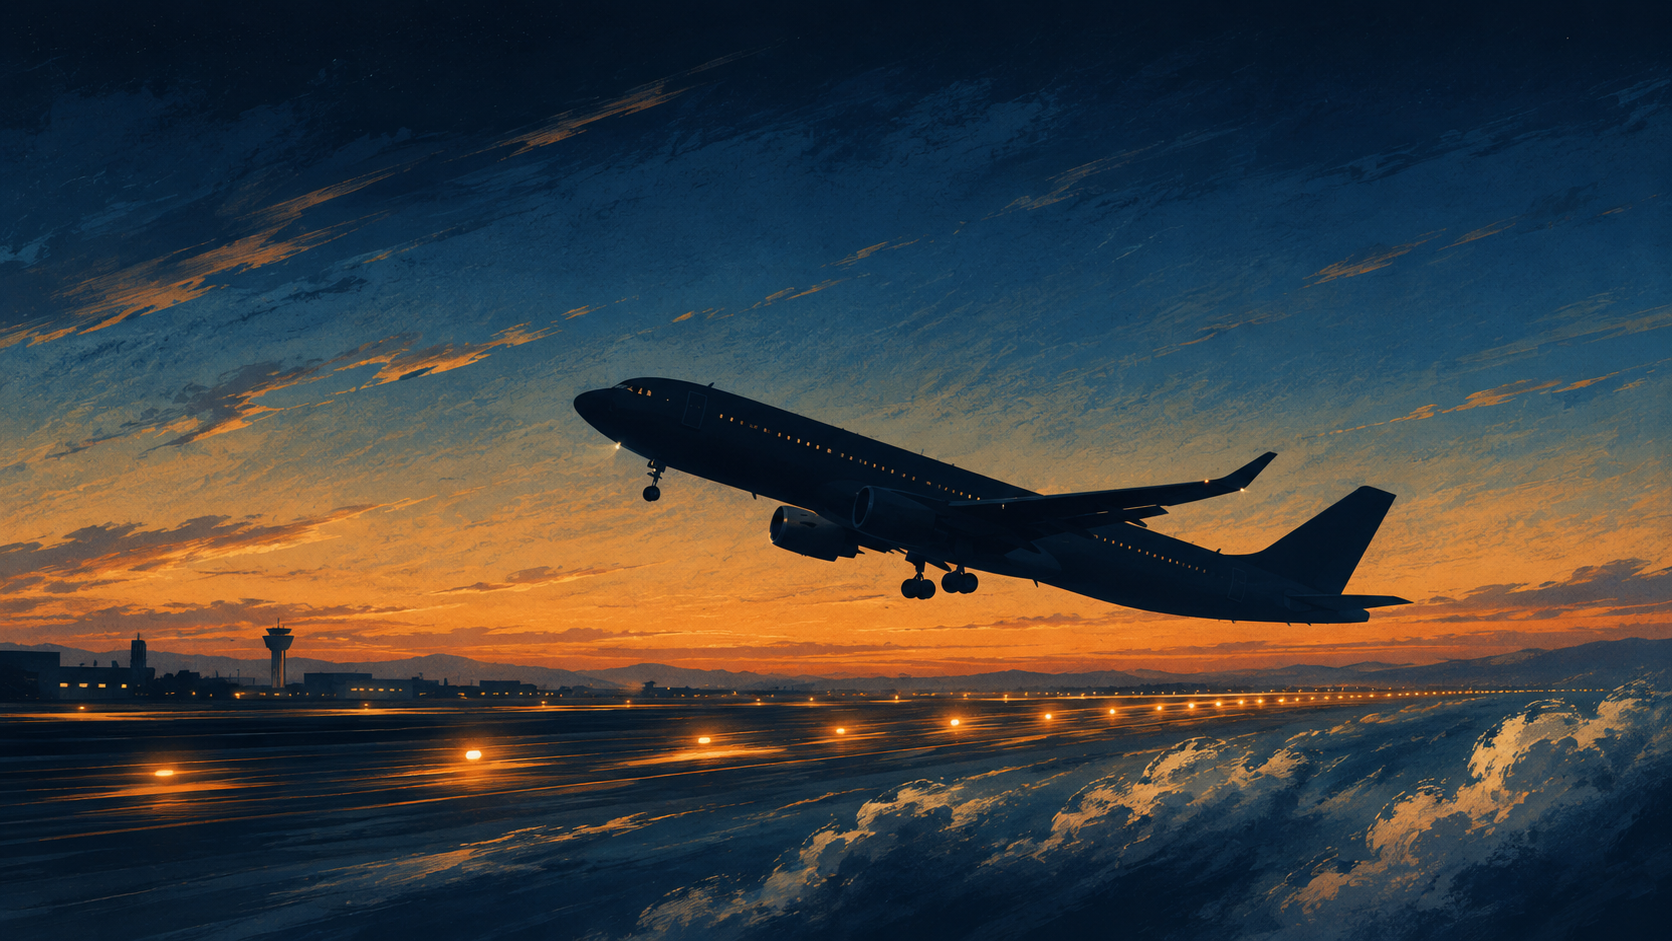
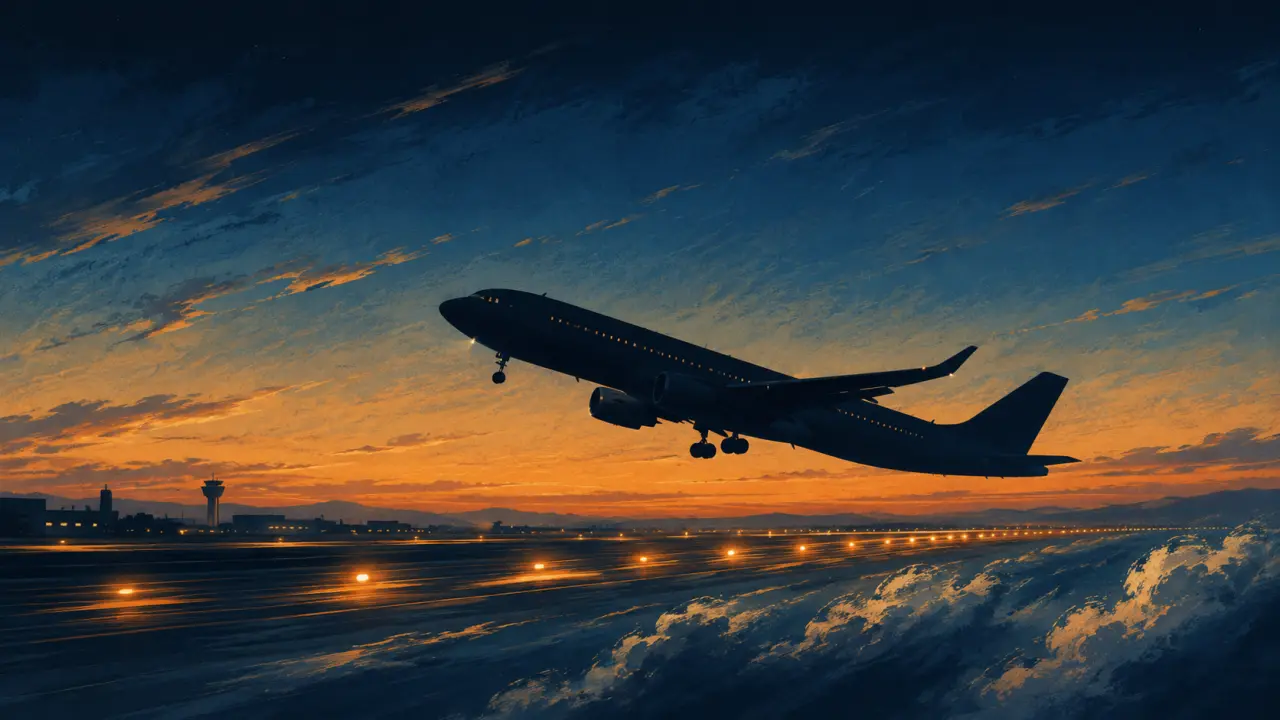
feat(ios): fit globe screen, speed up art loading, add city local goods
- Globe now sizes from window height (216-244pt, was fixed 268) so the
  环球 page fits on common phones without scrolling; arc bulge scales too.
- earth.png (1.6 MB) -> earth.webp (48 KB); flight takeoff/cruise frames
  re-encoded as true 1280x720 WebP (~56 KB / 40 KB, were 2 MB PNG impostors).
- Prefetch earth texture, current city hero and cutscene art on launch/city
  change so images paint immediately instead of popping in over the tunnel.
- Add 19 local specialty products for atlanta/dallas/denver/chicago/
  los_angeles/guangzhou/seoul/miami (Local market tab was empty there),
  reusing desktop 128x128 art; 8 carry demandIn premiums for arbitrage.
- Extract globeSizeFor() pure helper; add clamp + content-completeness
  tests (22 pass).

diff --git a/ios/expo/src/components/Globe.js b/ios/expo/src/components/Globe.js
@@ -6,37 +6,37 @@ import {
   PanResponder,
   Pressable,
   StyleSheet,
+  useWindowDimensions,
 } from 'react-native';
 import { CIDS, CITIES } from '../gameData';
+import { globeSizeFor } from '../gameLogic';
 import { assetSource } from '../assets';
 import { COLORS } from '../theme';
 
-const SIZE = 268;
-const IMG_W = SIZE * 2;
 const R = Math.PI / 180;
 
-function projectPin(lon, lat, rot) {
+function projectPin(lon, lat, rot, size) {
   const rel = ((lon + rot + 540) % 360) - 180;
   const vis = Math.abs(rel) < 88;
   const edge = Math.cos(rel * R);
   return {
-    x: (50 + (rel / 90) * 50) / 100 * SIZE,
-    y: (50 - (lat / 90) * 50) / 100 * SIZE,
+    x: (50 + (rel / 90) * 50) / 100 * size,
+    y: (50 - (lat / 90) * 50) / 100 * size,
     vis,
     edge,
     opacity: vis ? 0.4 + edge * 0.6 : 0,
   };
 }
 
-function sampleArc(x0, y0, x1, y1, n = 28) {
+function sampleArc(x0, y0, x1, y1, n, size) {
   const mx = (x0 + x1) / 2;
   const my = (y0 + y1) / 2;
-  const cx = SIZE / 2;
-  const cy = SIZE / 2;
+  const cx = size / 2;
+  const cy = size / 2;
   const dx = mx - cx;
   const dy = my - cy;
   const len = Math.hypot(dx, dy) || 1;
-  const bulge = 32;
+  const bulge = Math.round(size * 0.12);
   const qx = mx + (dx / len) * bulge;
   const qy = my + (dy / len) * bulge;
   const pts = [];
@@ -53,6 +53,9 @@ function sampleArc(x0, y0, x1, y1, n = 28) {
 
 /** Draggable world globe with pins, optional ticket arc, and inertia. */
 export function Globe({ game }) {
+  const { height } = useWindowDimensions();
+  const SIZE = globeSizeFor(height);
+  const IMG_W = SIZE * 2;
   const { state, city, setRot, setDragging, openPinCity, buzz } = game;
   const rot = state.rot === null || state.rot === undefined ? -city.lon : state.rot;
   const rotRef = useRef(rot);
@@ -90,14 +93,14 @@ export function Globe({ game }) {
       inertiaRef.current = requestAnimationFrame(step);
     },
     onPanResponderTerminate: () => setDragging(false),
-  }), [setRot, setDragging]);
+  }), [setRot, setDragging, SIZE]);
 
   const raw = -((90 - rot) / 360) * IMG_W;
   const off = ((raw % IMG_W) + IMG_W) % IMG_W - IMG_W;
 
   const pins = CIDS.map((k) => {
     const c = CITIES[k];
-    const p = projectPin(c.lon, c.lat, rot);
+    const p = projectPin(c.lon, c.lat, rot, SIZE);
     const here = k === state.city;
     const seen = state.visited.includes(k);
     const ticketEnd = state.ticket && (k === state.city || k === state.ticket.toId);
@@ -119,10 +122,10 @@ export function Globe({ game }) {
   const arcPts = (() => {
     const t = state.ticket;
     if (!t || !CITIES[t.toId]) return [];
-    const a = projectPin(CITIES[state.city].lon, CITIES[state.city].lat, rot);
-    const b = projectPin(CITIES[t.toId].lon, CITIES[t.toId].lat, rot);
+    const a = projectPin(CITIES[state.city].lon, CITIES[state.city].lat, rot, SIZE);
+    const b = projectPin(CITIES[t.toId].lon, CITIES[t.toId].lat, rot, SIZE);
     if (!a.vis && !b.vis) return [];
-    return sampleArc(a.x, a.y, b.x, b.y).filter((pt) => {
+    return sampleArc(a.x, a.y, b.x, b.y, 28, SIZE).filter((pt) => {
       const dx = pt.x - SIZE / 2;
       const dy = pt.y - SIZE / 2;
       return dx * dx + dy * dy <= (SIZE / 2 - 2) ** 2;
@@ -157,18 +160,24 @@ export function Globe({ game }) {
   };
 
   return (
-    <View style={styles.stage} pointerEvents="box-none">
-      <View style={styles.glow} pointerEvents="none" />
-      <View style={styles.circle} {...pan.panHandlers}>
+    <View style={[styles.stage, { height: SIZE + 34 }]} pointerEvents="box-none">
+      <View
+        style={[styles.glow, { width: SIZE + 52, height: SIZE + 52, borderRadius: (SIZE + 52) / 2 }]}
+        pointerEvents="none"
+      />
+      <View
+        style={[styles.circle, { width: SIZE, height: SIZE, borderRadius: SIZE / 2 }]}
+        {...pan.panHandlers}
+      >
         <Image
-          source={assetSource('assets/earth.png')}
-          style={[styles.strip, { left: off }]}
+          source={assetSource('assets/earth.webp')}
+          style={[styles.strip, { left: off, width: IMG_W, height: SIZE }]}
           resizeMode="stretch"
           accessible={false}
         />
         <Image
-          source={assetSource('assets/earth.png')}
-          style={[styles.strip, { left: off + IMG_W }]}
+          source={assetSource('assets/earth.webp')}
+          style={[styles.strip, { left: off + IMG_W, width: IMG_W, height: SIZE }]}
           resizeMode="stretch"
           accessible={false}
         />
@@ -182,7 +191,7 @@ export function Globe({ game }) {
         ))}
       </View>
 
-      <View style={styles.pinLayer} pointerEvents="box-none">
+      <View style={[styles.pinLayer, { width: SIZE, height: SIZE }]} pointerEvents="box-none">
         {pins.map((p) => (
           p.vis && p.opacity > 0.05 ? (
             <Pressable
@@ -229,24 +238,17 @@ export function Globe({ game }) {
 
 const styles = StyleSheet.create({
   stage: {
-    height: 318,
     alignItems: 'center',
     justifyContent: 'center',
-    marginTop: 2,
     overflow: 'hidden',
     zIndex: 0,
   },
   glow: {
     position: 'absolute',
-    width: 320,
-    height: 320,
     borderRadius: 160,
     backgroundColor: 'rgba(96, 168, 214, 0.09)',
   },
   circle: {
-    width: SIZE,
-    height: SIZE,
-    borderRadius: SIZE / 2,
     overflow: 'hidden',
     backgroundColor: '#071722',
     borderWidth: StyleSheet.hairlineWidth,
@@ -255,8 +257,6 @@ const styles = StyleSheet.create({
   strip: {
     position: 'absolute',
     top: 0,
-    width: IMG_W,
-    height: SIZE,
   },
   shade: {
     ...StyleSheet.absoluteFillObject,
@@ -271,8 +271,6 @@ const styles = StyleSheet.create({
   },
   pinLayer: {
     position: 'absolute',
-    width: SIZE,
-    height: SIZE,
   },
   pinWrap: {
     position: 'absolute',
@@ -293,7 +291,7 @@ const styles = StyleSheet.create({
     color: COLORS.teal,
   },
   hint: {
-    marginTop: 14,
+    marginTop: 10,
     fontSize: 12,
     color: COLORS.muted2,
   },

diff --git a/ios/expo/src/gameData.js b/ios/expo/src/gameData.js
@@ -264,6 +264,25 @@ const PRODUCT_SEED = {
   bkk_spice: PR('bkk_spice', 'bangkok', 'Thai Spice Crate', 'Spices', 'assets/p_bkk_spice.webp', 3.6, 142),
   bkk_lacquer: PR('bkk_lacquer', 'bangkok', 'Lacquerware Set', 'Crafts', 'assets/p_bkk_lacquer.webp', 4.8, 228),
   bkk_silk: PR('bkk_silk', 'bangkok', 'Thai Silk Bolt', 'Textiles', 'assets/p_bkk_silk.webp', 3.4, 268),
+  atl_peach: PR('atl_peach', 'atlanta', 'Georgia Peach Crate', 'Food', 'assets/p_atl_peach.webp', 5.2, 84),
+  atl_cotton: PR('atl_cotton', 'atlanta', 'Cotton Bale Contract', 'Textiles', 'assets/p_atl_cotton.webp', 9.0, 300),
+  atl_logistics: PR('atl_logistics', 'atlanta', 'Logistics Components', 'Machinery', 'assets/p_atl_logistics.webp', 6.5, 620),
+  dfw_leather: PR('dfw_leather', 'dallas', 'Texas Leather Roll', 'Crafts', 'assets/p_dfw_leather.webp', 6.8, 300),
+  dfw_energy: PR('dfw_energy', 'dallas', 'Texas Energy Contract', 'Energy', 'assets/p_dfw_energy.webp', 1.2, 880),
+  dfw_aerospace: PR('dfw_aerospace', 'dallas', 'Aerospace Parts', 'Machinery', 'assets/p_dfw_aerospace.webp', 5.0, 1250),
+  den_mineral: PR('den_mineral', 'denver', 'Mountain Mineral Specimens', 'Crafts', 'assets/p_den_mineral.webp', 3.2, 380),
+  den_brew: PR('den_brew', 'denver', 'Craft Brew Keg', 'Food', 'assets/p_den_brew.webp', 9.5, 120),
+  ord_grain: PR('ord_grain', 'chicago', 'Great Lakes Grain Lot', 'Food', 'assets/p_ord_grain.webp', 11.0, 72),
+  ord_machinery: PR('ord_machinery', 'chicago', 'Farm Machinery Parts', 'Machinery', 'assets/p_ord_machinery.webp', 8.5, 540),
+  lax_avocado: PR('lax_avocado', 'los_angeles', 'Avocado Crate', 'Food', 'assets/p_lax_avocado.webp', 6.4, 88),
+  lax_film: PR('lax_film', 'los_angeles', 'Studio Film Props', 'Crafts', 'assets/p_lax_film.webp', 2.6, 460),
+  lax_tech: PR('lax_tech', 'los_angeles', 'Silicon Tech Kit', 'Electronics', 'assets/p_lax_tech.webp', 0.9, 950),
+  can_ceramic: PR('can_ceramic', 'guangzhou', 'Canton Ceramics', 'Crafts', 'assets/p_can_ceramic.webp', 5.0, 320),
+  can_tea: PR('can_tea', 'guangzhou', 'Guangdong Tea Set', 'Tea', 'assets/p_can_tea.webp', 2.4, 210),
+  icn_cosmetics: PR('icn_cosmetics', 'seoul', 'K-Beauty Cosmetics', 'Cosmetics', 'assets/p_icn_cosmetics.webp', 1.4, 380),
+  mia_citrus: PR('mia_citrus', 'miami', 'Florida Citrus Crate', 'Food', 'assets/p_mia_citrus.webp', 6.8, 66),
+  mia_seafood: PR('mia_seafood', 'miami', 'Caribbean Seafood Box', 'Food', 'assets/p_mia_seafood.webp', 7.2, 250),
+  mia_tobacco: PR('mia_tobacco', 'miami', 'Cuban Tobacco Lot', 'Daily goods', 'assets/p_mia_tobacco.webp', 3.6, 420),
 };
 
 Object.values(PRODUCT_SEED).forEach(defineProduct);
@@ -275,6 +294,14 @@ Object.values(PRODUCT_SEED).forEach(defineProduct);
   { id: 'fra_machinery', home: 'frankfurt', volatility: 0.8, demandIn: { bangkok: 1.3, shanghai: 1.2 } },
   { id: 'ams_flower', home: 'amsterdam', volatility: 1.5, demandIn: { london: 1.18, paris: 1.14 } },
   { id: 'hnd_elec', home: 'tokyo', volatility: 0.9, demandIn: { istanbul: 1.25, bangkok: 1.2 } },
+  { id: 'atl_peach', home: 'atlanta', volatility: 1.4, demandIn: { london: 1.25, paris: 1.18 } },
+  { id: 'atl_cotton', home: 'atlanta', volatility: 0.9, demandIn: { bangkok: 1.2 } },
+  { id: 'dfw_aerospace', home: 'dallas', volatility: 0.85, demandIn: { shanghai: 1.22, singapore: 1.15 } },
+  { id: 'den_brew', home: 'denver', volatility: 1.3, demandIn: { chicago: 1.15 } },
+  { id: 'lax_tech', home: 'los_angeles', volatility: 0.9, demandIn: { hong_kong: 1.25, tokyo: 1.2 } },
+  { id: 'can_tea', home: 'guangzhou', volatility: 1.1, demandIn: { singapore: 1.18 } },
+  { id: 'icn_cosmetics', home: 'seoul', volatility: 0.95, demandIn: { shanghai: 1.22, hong_kong: 1.15 } },
+  { id: 'mia_citrus', home: 'miami', volatility: 1.5, demandIn: { atlanta: 1.15 } },
 ].forEach(defineProduct);
 
 const AIRLINE_SEED = {

diff --git a/ios/expo/src/assets.js b/ios/expo/src/assets.js
@@ -20,7 +20,7 @@ const ASSETS = {
   'assets/city_guangzhou.webp': require('../../assets/city_guangzhou.webp'),
   'assets/city_seoul.webp': require('../../assets/city_seoul.webp'),
   'assets/city_miami.webp': require('../../assets/city_miami.webp'),
-  'assets/earth.png': require('../../assets/earth.png'),
+  'assets/earth.webp': require('../../assets/earth.webp'),
   'assets/p_ist_lokum.webp': require('../../assets/p_ist_lokum.webp'),
   'assets/p_ist_ceramic.webp': require('../../assets/p_ist_ceramic.webp'),
   'assets/p_ist_copper.webp': require('../../assets/p_ist_copper.webp'),
@@ -53,6 +53,25 @@ const ASSETS = {
   'assets/p_bkk_spice.webp': require('../../assets/p_bkk_spice.webp'),
   'assets/p_bkk_lacquer.webp': require('../../assets/p_bkk_lacquer.webp'),
   'assets/p_bkk_silk.webp': require('../../assets/p_bkk_silk.webp'),
+  'assets/p_atl_peach.webp': require('../../assets/p_atl_peach.webp'),
+  'assets/p_atl_cotton.webp': require('../../assets/p_atl_cotton.webp'),
+  'assets/p_atl_logistics.webp': require('../../assets/p_atl_logistics.webp'),
+  'assets/p_dfw_leather.webp': require('../../assets/p_dfw_leather.webp'),
+  'assets/p_dfw_energy.webp': require('../../assets/p_dfw_energy.webp'),
+  'assets/p_dfw_aerospace.webp': require('../../assets/p_dfw_aerospace.webp'),
+  'assets/p_den_mineral.webp': require('../../assets/p_den_mineral.webp'),
+  'assets/p_den_brew.webp': require('../../assets/p_den_brew.webp'),
+  'assets/p_ord_grain.webp': require('../../assets/p_ord_grain.webp'),
+  'assets/p_ord_machinery.webp': require('../../assets/p_ord_machinery.webp'),
+  'assets/p_lax_avocado.webp': require('../../assets/p_lax_avocado.webp'),
+  'assets/p_lax_film.webp': require('../../assets/p_lax_film.webp'),
+  'assets/p_lax_tech.webp': require('../../assets/p_lax_tech.webp'),
+  'assets/p_can_ceramic.webp': require('../../assets/p_can_ceramic.webp'),
+  'assets/p_can_tea.webp': require('../../assets/p_can_tea.webp'),
+  'assets/p_icn_cosmetics.webp': require('../../assets/p_icn_cosmetics.webp'),
+  'assets/p_mia_citrus.webp': require('../../assets/p_mia_citrus.webp'),
+  'assets/p_mia_seafood.webp': require('../../assets/p_mia_seafood.webp'),
+  'assets/p_mia_tobacco.webp': require('../../assets/p_mia_tobacco.webp'),
   'assets/p_generic.webp': require('../../assets/p_generic.webp'),
   'assets/anim_flight_takeoff.webp': require('../../assets/anim_flight_takeoff.webp'),
   'assets/anim_flight_cruise.webp': require('../../assets/anim_flight_cruise.webp'),

diff --git a/ios/expo/App.js b/ios/expo/App.js
@@ -7,12 +7,14 @@ import {
   StyleSheet,
   StatusBar,
   ActivityIndicator,
+  Image,
 } from 'react-native';
 import { SafeAreaProvider, SafeAreaView } from 'react-native-safe-area-context';
 import { useGame } from './src/hooks/useGame';
-import { TABS } from './src/gameData';
+import { TABS, CUTSCENE_ART } from './src/gameData';
 import { COLORS } from './src/theme';
 import { AssetIcon } from './src/components/ui';
+import { assetSource } from './src/assets';
 import { GlobeScreen } from './src/components/GlobeScreen';
 import { MarketScreen, FlightsScreen, MarketSheets } from './src/components/MarketFlights';
 import { BagsScreen, MoreScreen, OverlaySheets } from './src/components/BagsMore';
@@ -65,6 +67,17 @@ function GameApp() {
     else if (isNight) track = 'bgm_night';
     playBgm(track);
   }, [state.tab, state.localTime, state.optSound, loaded]);
+
+  // Warm the bitmap cache so the globe texture, the current city hero and the
+  // flight cutscenes paint immediately instead of popping in over the tunnel.
+  useEffect(() => {
+    if (!loaded) return;
+    const paths = ['assets/earth.webp', city.hero, ...CUTSCENE_ART.map((c) => c.art)];
+    paths.forEach((p) => {
+      const src = Image.resolveAssetSource(assetSource(p));
+      if (src && src.uri) Image.prefetch(src.uri).catch(() => {});
+    });
+  }, [loaded, state.city]);
 
   if (!loaded) {
     return (

diff --git a/ios/expo/src/gameLogic.js b/ios/expo/src/gameLogic.js
@@ -142,6 +142,18 @@ export function locals(cityId) {
   return PRODUCT_IDS.filter((id) => PRODUCTS[id].home === cityId);
 }
 
+/**
+ * Globe diameter for a given window height. Sized so the whole 环球 page fits
+ * on common phones without scrolling (216–244pt, ~9% smaller than the old
+ * fixed 268). Clamped for very small (landscape) and very large (tablet)
+ * screens.
+ */
+export function globeSizeFor(windowHeight) {
+  const MIN = 216;
+  const MAX = 244;
+  return Math.min(MAX, Math.max(MIN, Math.round(windowHeight - 620)));
+}
+
 export function imports(cityId) {
   return PRODUCT_IDS.filter((id) => PRODUCTS[id].home !== cityId)
     .sort((a, b) => hsh(a + cityId) - hsh(b + cityId))

diff --git a/ios/expo/src/components/GlobeScreen.js b/ios/expo/src/components/GlobeScreen.js
@@ -408,7 +408,7 @@ const styles = StyleSheet.create({
     marginTop: 4,
   },
   heroImageWrap: {
-    height: 132,
+    height: 124,
     position: 'relative',
   },
   heroImage: {
@@ -458,7 +458,7 @@ const styles = StyleSheet.create({
   },
   statsRow: {
     flexDirection: 'row',
-    padding: 12,
+    padding: 10,
   },
   statCell: {
     flex: 1,
@@ -480,7 +480,7 @@ const styles = StyleSheet.create({
   },
   elevRow: {
     paddingHorizontal: 12,
-    paddingBottom: 11,
+    paddingBottom: 9,
   },
   elevText: {
     fontSize: 11,
